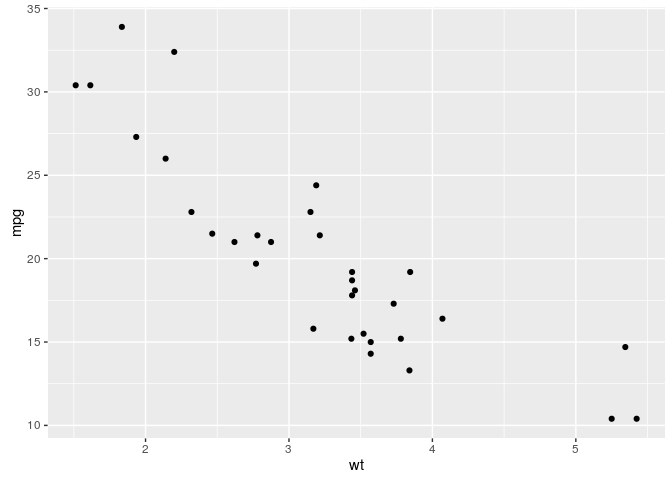
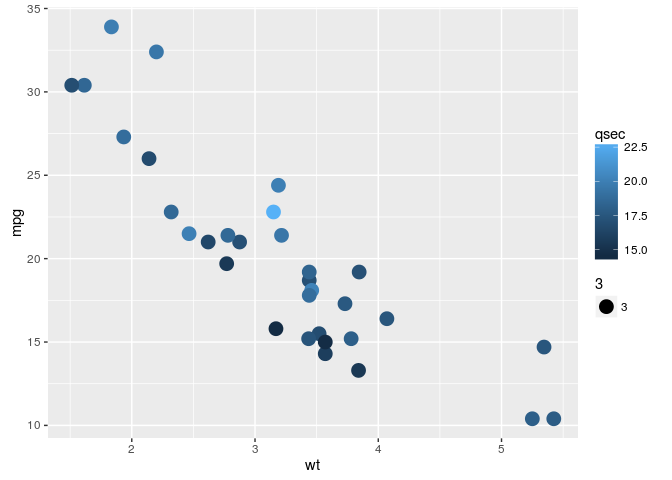
first try

diff --git a/ggplot_practice.md b/ggplot_practice.md
@@ -37,4 +37,37 @@ ggplot practice
 
     qplot(wt,mpg,data=mtcars,color=qsec)
 
-![](ggplot_practice_files/figure-markdown_strict/qplot-3.png)
+![](ggplot_practice_files/figure-markdown_strict/qplot-3.png)  
+
+    # change size of points (hint: color/colour, hint: set aesthetic/mapping)
+    qplot(wt, mpg, data=mtcars, color=qsec, size=3)
+
+![](ggplot_practice_files/figure-markdown_strict/unnamed-chunk-3-1.png)  
+
+    qplot(wt, mpg, data=mtcars, colour=qsec, size=I(3))
+
+![](ggplot_practice_files/figure-markdown_strict/unnamed-chunk-3-2.png)  
+
+    # use alpha blending
+    qplot(wt, mpg, data=mtcars, alpha=qsec)
+
+![](ggplot_practice_files/figure-markdown_strict/unnamed-chunk-3-3.png)  
+
+    head(mtcars,3)
+
+    ##                mpg cyl disp  hp drat    wt  qsec vs am gear carb
+    ## Mazda RX4     21.0   6  160 110 3.90 2.620 16.46  0  1    4    4
+    ## Mazda RX4 Wag 21.0   6  160 110 3.90 2.875 17.02  0  1    4    4
+    ## Datsun 710    22.8   4  108  93 3.85 2.320 18.61  1  1    4    1
+
+    qplot(wt,mpg,data=mtcars,colour=cyl)
+
+![](ggplot_practice_files/figure-markdown_strict/unnamed-chunk-4-1.png)  
+
+    levels(mtcars$cyl)
+
+    ## NULL
+
+    qplot(wt,mpg,data=mtcars,colour=factor(cyl))
+
+![](ggplot_practice_files/figure-markdown_strict/unnamed-chunk-4-2.png)
